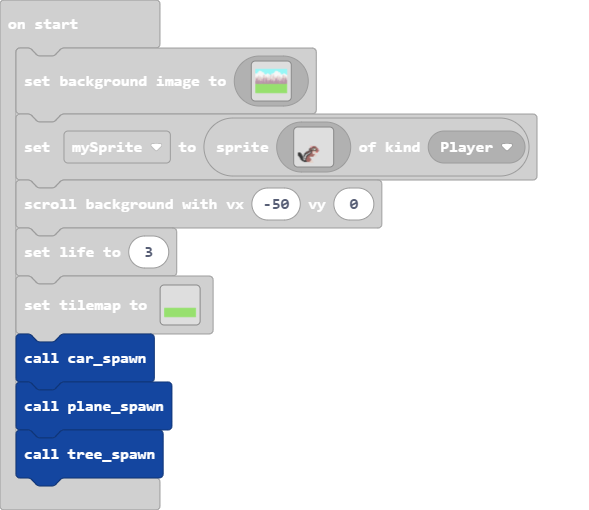
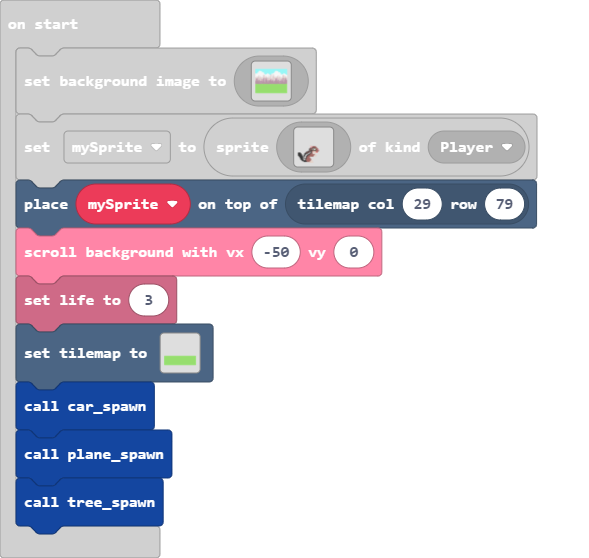
Update main.blocks, main.ts

diff --git a/main.ts b/main.ts
@@ -420,6 +420,7 @@ scene.setBackgroundImage(img`
     7777777777777777777777777777777777777777777777777777777777777777777777777777777777777777777777777777777777777777777777777777777777777777777777777777777777777777
     `)
 mySprite = sprites.create(assets.image`Squirrel`, SpriteKind.Player)
+tiles.placeOnTile(mySprite, tiles.getTileLocation(29, 79))
 scroller.scrollBackgroundWithSpeed(-50, 0)
 info.setLife(3)
 tiles.setTilemap(tilemap`level2`)
